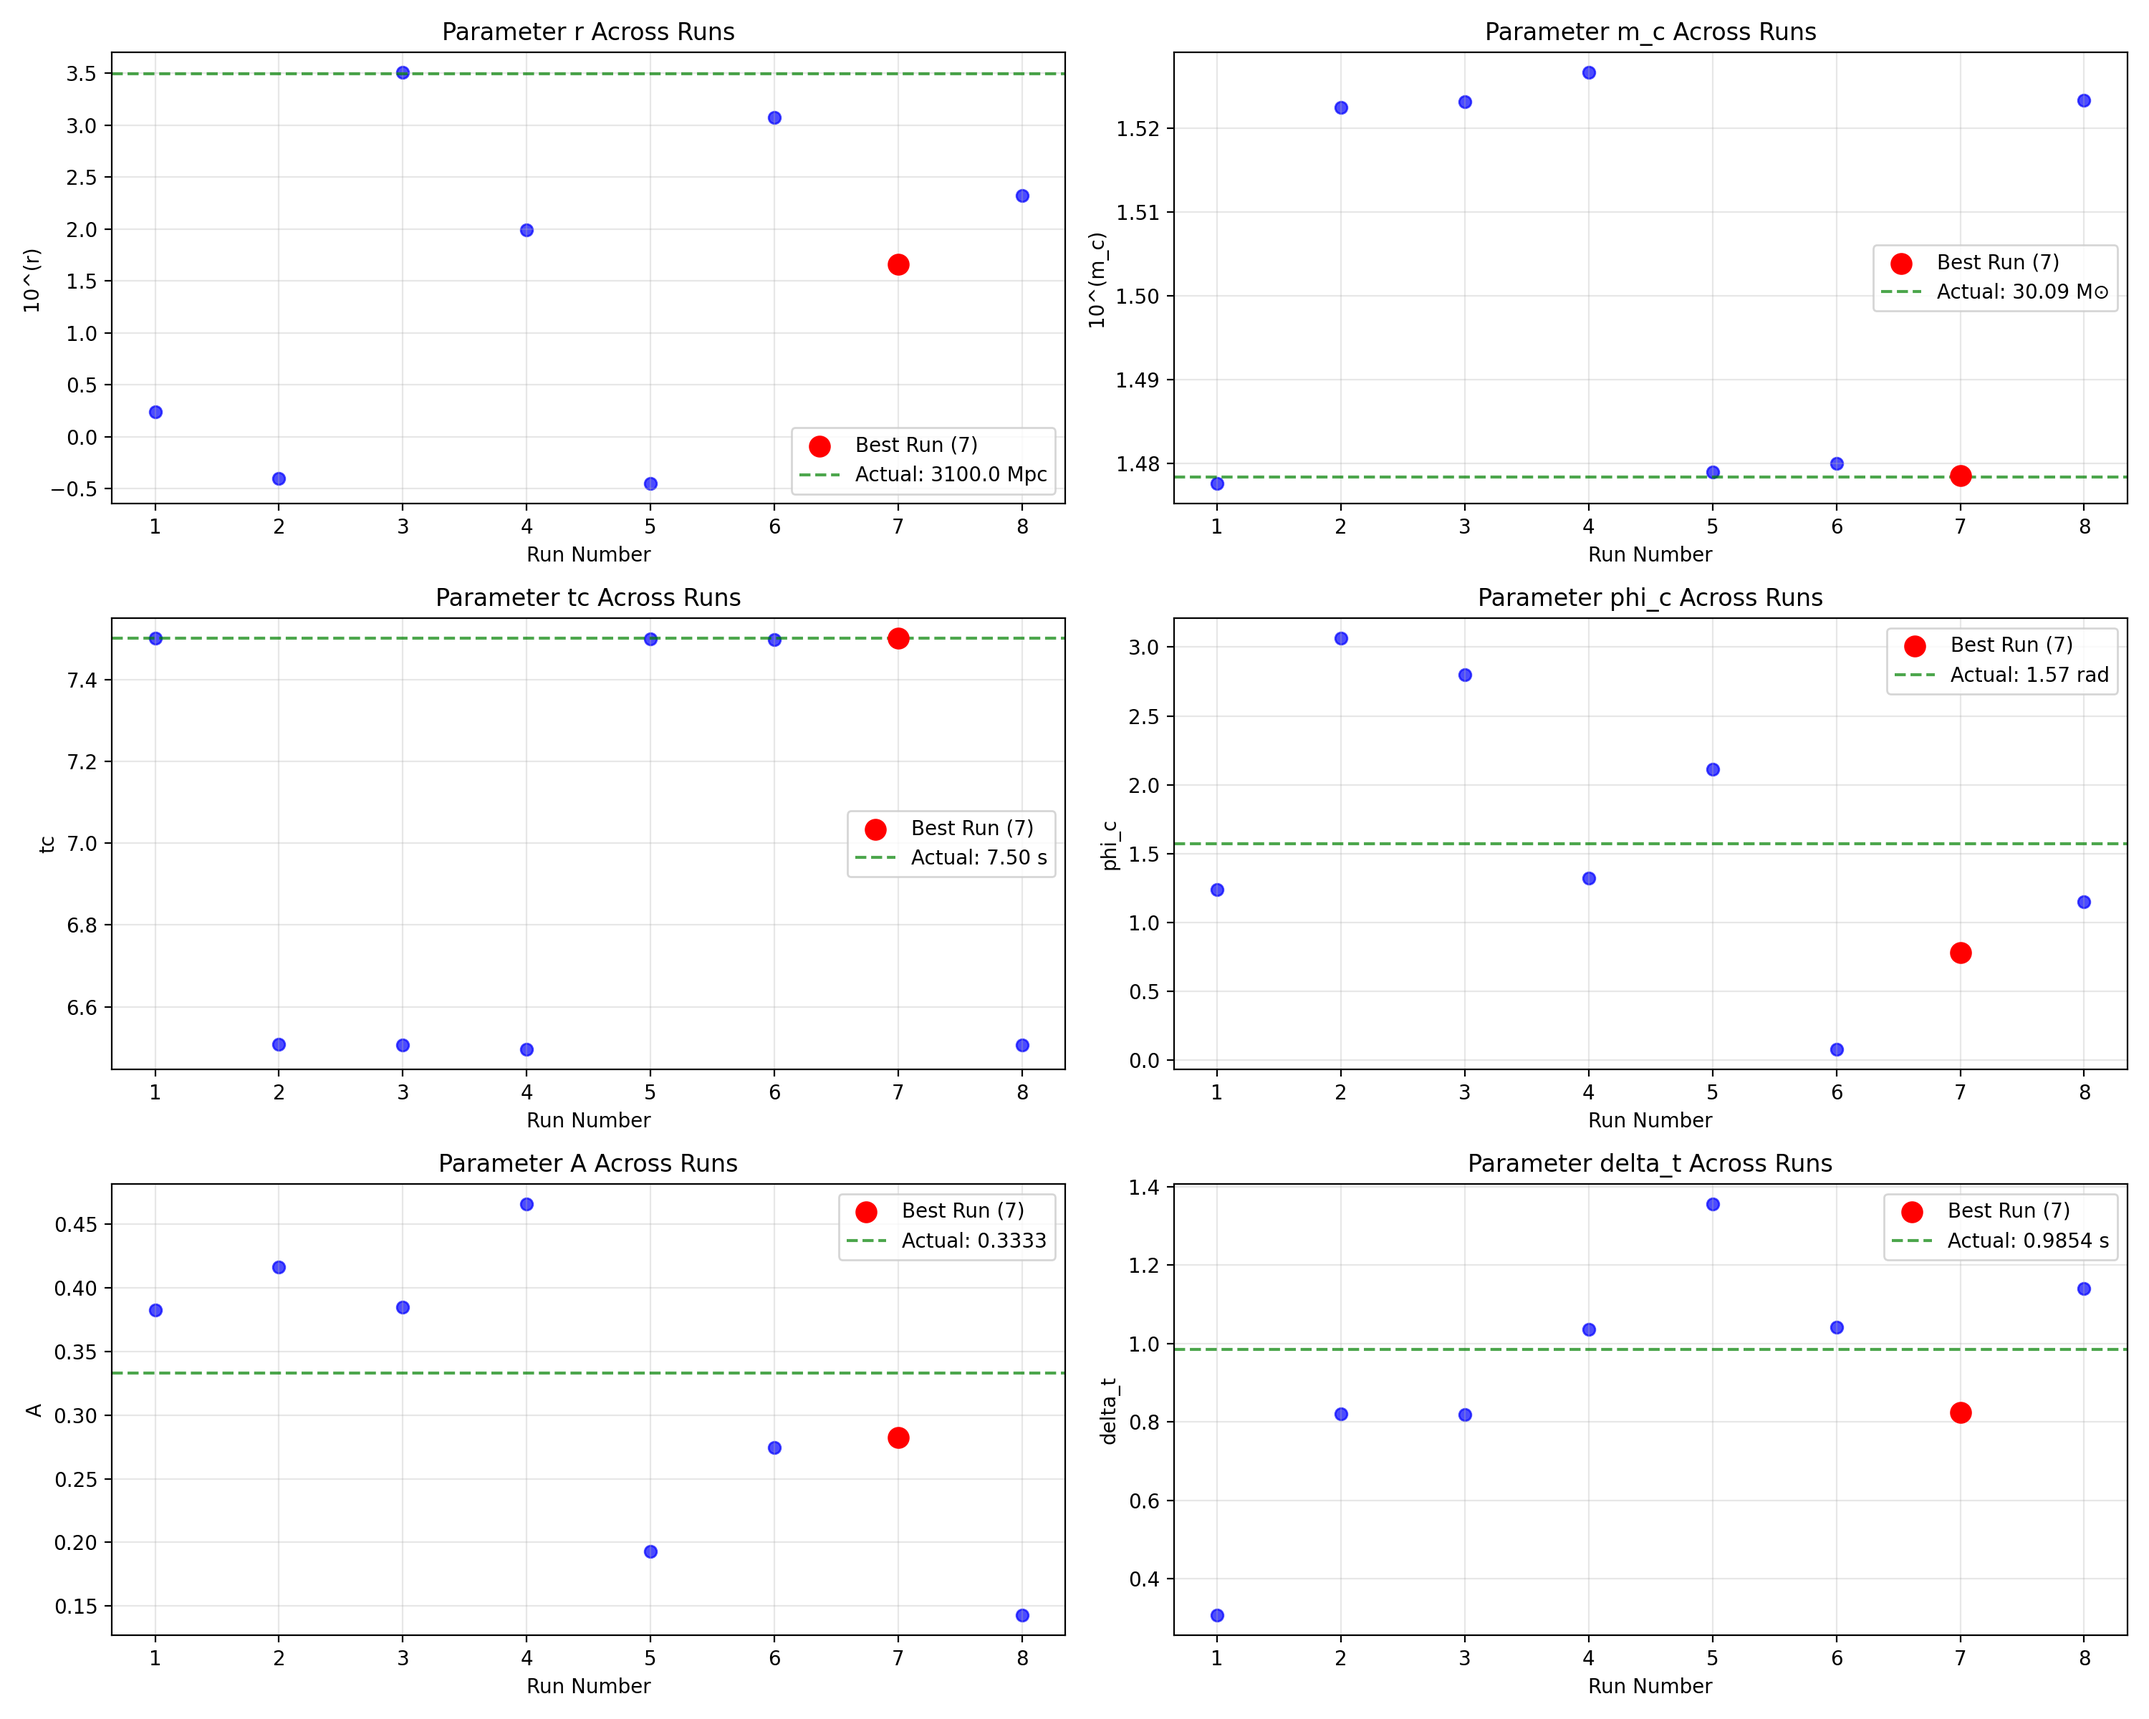
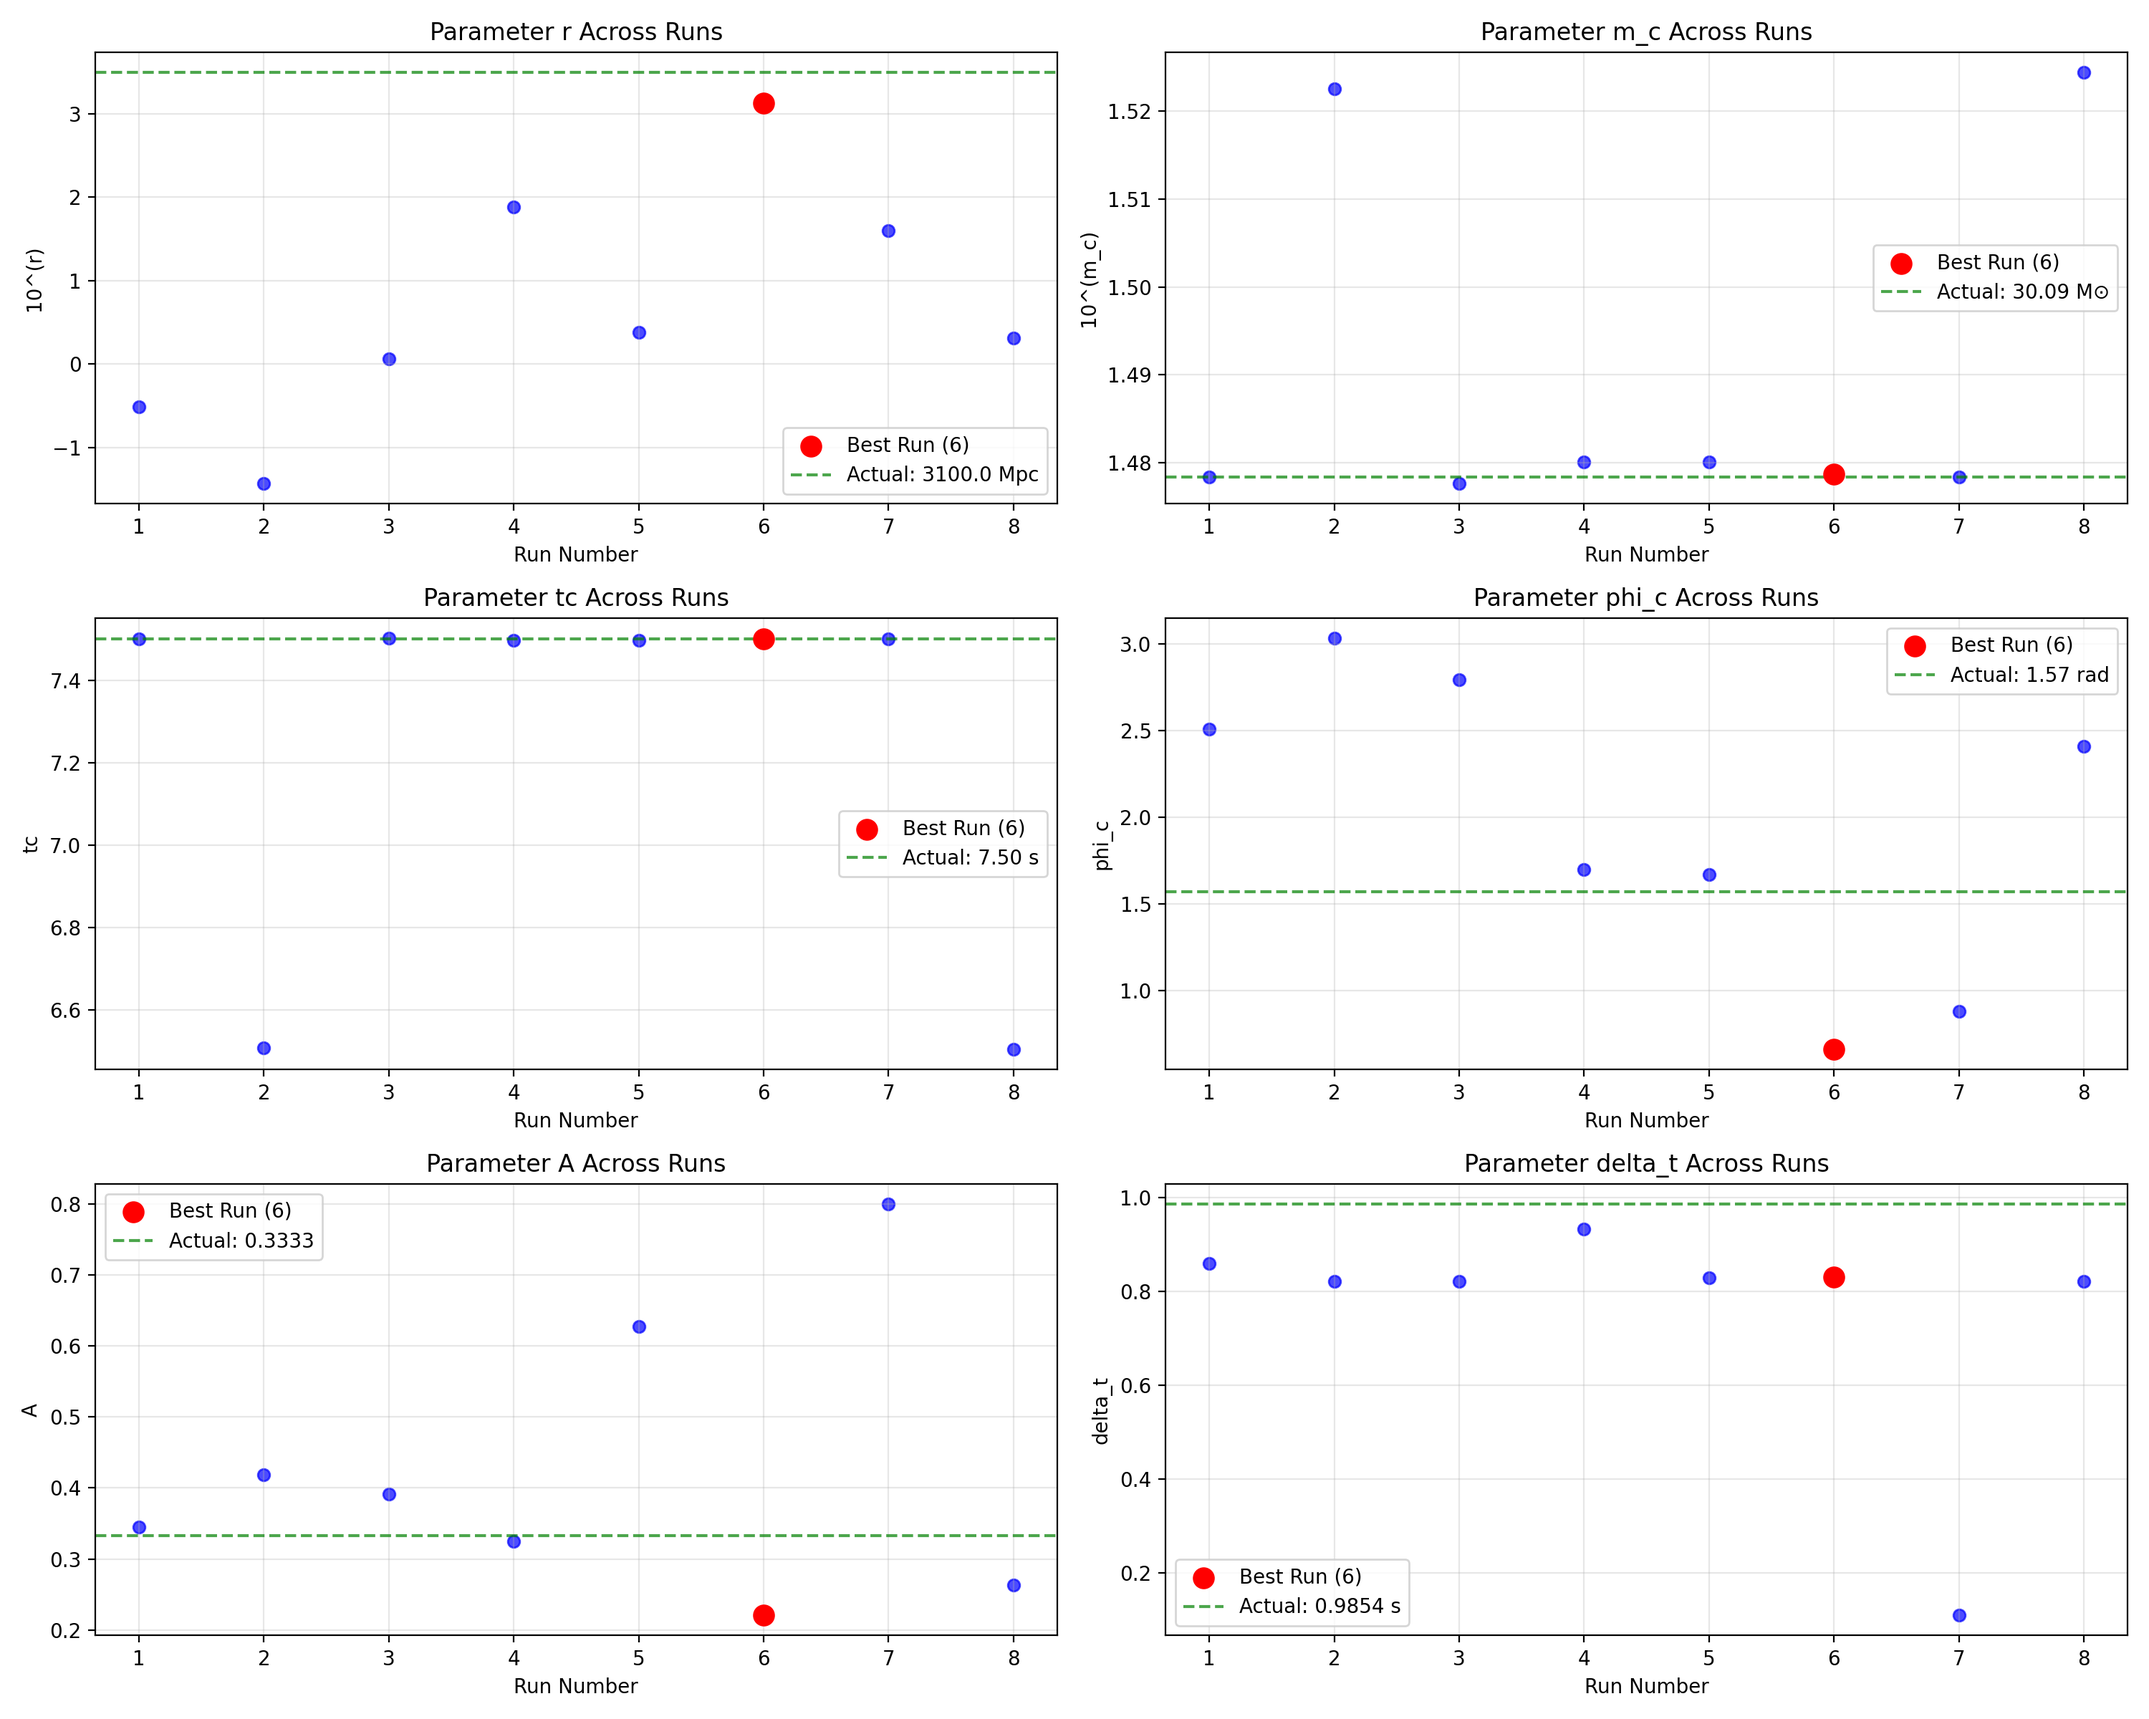
change

diff --git a/Main/PSO_GPU/test_pso/pso_results/PSO_main_new.py b/Main/PSO_GPU/test_pso/pso_results/PSO_main_new.py
@@ -236,8 +236,8 @@ def pycbc_calculate_match(signal1, signal2, fs, psd):
 def two_step_matching(params, dataY, psdHigh, sampFreq, actual_params=None):
     """
     Enhanced two-step matching process to classify gravitational wave signals
-    based on the value of A. A < 1 indicates lensed signal, A >= 1 indicates
-    unlensed signal.
+    based on the value of A. A < 0.01 indicates unlensed signal, A >= 0.01 indicates
+    lensed signal.
 
     Parameters:
     -----------
@@ -348,15 +348,15 @@ def two_step_matching(params, dataY, psdHigh, sampFreq, actual_params=None):
     result['model_comparison'] = model_comparison
 
     # Classification based solely on the value of A
-    # A < 1 indicates lensed signal, A >= 1 indicates unlensed signal
-    if A < 1:
-        result['is_lensed'] = True
-        result['message'] = f"This is a lens signal (A = {A:.6f} < 1)"
-        result['classification'] = "lens_signal"
-    else:
+    # A < 0.01 indicates unlensed signal, A >= 0.01 indicates lensed signal
+    if A < 0.01:
         result['is_lensed'] = False
-        result['message'] = f"This is an unlensed signal (A = {A:.6f} >= 1)"
+        result['message'] = f"This is an unlensed signal (A = {A:.6f} < 0.01)"
         result['classification'] = "signal"
+    else:
+        result['is_lensed'] = True
+        result['message'] = f"This is a lens signal (A = {A:.6f} >= 0.01)"
+        result['classification'] = "lens_signal"
 
     # Compare with actual parameters if provided (for evaluation only)
     if actual_params is not None:
@@ -376,13 +376,13 @@ def two_step_matching(params, dataY, psdHigh, sampFreq, actual_params=None):
                                abs(phi_c - actual_params.get('phase', 0) * 2 * cp.pi - 2 * cp.pi)) / (2 * cp.pi),
             'A_error': (A - actual_params.get('flux_ratio', 0)) / actual_params.get('flux_ratio', 1),
             'delta_t_error': (delta_t - actual_params.get('time_delay', 0)) / actual_params.get('time_delay', 1),
-            'classification_correct': (result['is_lensed'] == (actual_params.get('flux_ratio', 0) < 1))
+            'classification_correct': (result['is_lensed'] == (actual_params.get('flux_ratio', 0) >= 0.01))
         }
         result['parameter_errors'] = param_errors
 
         # Create detailed actual value comparison
         actual_comparison = {
-            'actual_is_lensed': actual_params.get('flux_ratio', 0) < 1,
+            'actual_is_lensed': actual_params.get('flux_ratio', 0) >= 0.01,
             'estimated_is_lensed': result['is_lensed'],
             'classification_matches_actual': param_errors['classification_correct'],
             'parameters': {
@@ -399,8 +399,8 @@ def two_step_matching(params, dataY, psdHigh, sampFreq, actual_params=None):
         result['actual_comparison'] = actual_comparison
 
         # Enhance message with actual comparison
-        if result['is_lensed'] != (actual_params.get('flux_ratio', 0) < 1):
-            actual_type = "lensed" if actual_params.get('flux_ratio', 0) < 1 else "unlensed"
+        if result['is_lensed'] != (actual_params.get('flux_ratio', 0) >= 0.01):
+            actual_type = "unlensed" if actual_params.get('flux_ratio', 0) < 0.01 else "lensed"
             result['message'] += f" - MISCLASSIFIED (actual signal is {actual_type})"
         else:
             result['message'] += f" - CORRECT CLASSIFICATION"
@@ -830,7 +830,7 @@ def crcbqcpsopsd(inParams, psoParams, nRuns, use_two_step=True, actual_params=No
             # Use original method to generate signal
             print('未使用两步匹配过程')
             # IMPORTANT: Use lensing flag based on A value
-            is_lensed = A < 1
+            is_lensed = A >= 0.01
             use_lensing = is_lensed
 
             estSig = crcbgenqcsig(inParams['dataX'], r, m_c, tc, phi_c, A, delta_t, use_lensing=use_lensing)
@@ -841,10 +841,10 @@ def crcbqcpsopsd(inParams, psoParams, nRuns, use_two_step=True, actual_params=No
 
             # Generate classification message
             if is_lensed:
-                lensing_message = f"This is a lens signal (A = {A:.6f} < 1)"
+                lensing_message = f"This is a lens signal (A = {A:.6f} >= 0.01)"
                 classification = "lens_signal"
             else:
-                lensing_message = f"This is an unlensed signal (A = {A:.6f} >= 1)"
+                lensing_message = f"This is an unlensed signal (A = {A:.6f} < 0.01)"
                 classification = "signal"
 
             model_comparison = {}
@@ -1586,9 +1586,9 @@ def ssrqc(x, params):
         Negative matched filtering result
     """
     # IMPORTANT: Determine lensing usage based on A parameter value
-    # If A < 1, the signal should be lensed; if A >= 1, the signal should be unlensed
+    # If A < 0.01, the signal should be unlensed; if A >= 0.01, the signal should be lensed
     A = x[4]  # The A parameter
-    use_lensing = A < 1
+    use_lensing = A >= 0.01
 
     # Generate signal based on the A parameter value
     qc = crcbgenqcsig(params['dataX'], x[0], x[1], x[2], x[3], x[4], x[5], use_lensing=use_lensing)
@@ -1624,9 +1624,9 @@ def bayesian_ssrqc(x, params):
         Negative log posterior (likelihood * prior)
     """
     # IMPORTANT: Determine lensing usage based on A parameter value
-    # If A < 1, the signal should be lensed; if A >= 1, the signal should be unlensed
+    # If A < 0.01, the signal should be unlensed; if A >= 0.01, the signal should be lensed
     A = x[4]  # The A parameter
-    use_lensing = A < 1
+    use_lensing = A >= 0.01
 
     # Generate signal based on whether to use lensing or not
     qc = crcbgenqcsig(params['dataX'], x[0], x[1], x[2], x[3], x[4], x[5], use_lensing=use_lensing)

diff --git a/Main/PSO_GPU/test_pso/pso_results/PSO_run_new.py b/Main/PSO_GPU/test_pso/pso_results/PSO_run_new.py
@@ -27,8 +27,8 @@ nSamples = dataY.size
 Fs = float(analysisData['samples'][0][0])
 
 #                r    mc   tc   phi    A      Δtd
-rmin = cp.array([-2, 0, 1, 0, 0, 0])
-rmax = cp.array([4, 2, 8.0, np.pi, 1.0, 4.0])  # Changed A upper limit to 2.0
+rmin = cp.array([-2, 0, 0.1, 0, 0, 0.1])  # Changed A lower limit to 0
+rmax = cp.array([4, 2, 8.0, np.pi, 1.0, 4.0])  # Changed A upper limit to 1.0
 
 # Time domain settings
 dt = 1 / Fs  # sampling rate Hz
